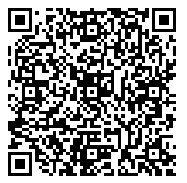
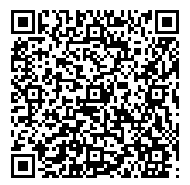
chore: actualizar link de descarga MEGA y QR a nueva version del instalador (891MB)

diff --git a/index.html b/index.html
@@ -275,7 +275,7 @@
             </div>
 
             <!-- Primary Download Button (Mega) -->
-            <a href="https://mega.nz/file/zPI1gawA#y-E0MLB6tqI3Soen1IjRFvXBdAELtG8m9sJut92jWoo" id="mainDownloadBtn" class="btn-primary-download" target="_blank" rel="noopener noreferrer">
+            <a href="https://mega.nz/file/yLAhlSSS#igIBJYLekM7edOQ_2KxHual0LNYTdXIf5eInK3cf95w" id="mainDownloadBtn" class="btn-primary-download" target="_blank" rel="noopener noreferrer">
               <span class="btn-bg-shimmer"></span>
               <span class="dl-btn-content">
                 <span class="dl-icon-symbol">⬇</span>
@@ -288,7 +288,7 @@
             <div class="download-aux-bar">
               <span class="aux-label" data-i18n="dl.aux_label">ENLACE MEGA:</span>
               <div class="link-display-box">
-                <code id="displayDownloadUrl" class="url-text">https://mega.nz/file/zPI1gawA#y-E0MLB6tqI3Soen1IjRFvXBdAELtG8m9sJut92jWoo</code>
+                <code id="displayDownloadUrl" class="url-text">https://mega.nz/file/yLAhlSSS#igIBJYLekM7edOQ_2KxHual0LNYTdXIf5eInK3cf95w</code>
                 <button id="btnCopyLink" class="btn-copy" title="Copiar enlace al portapapeles">
                   <span data-i18n="dl.copy_btn">COPIAR</span>
                 </button>

diff --git a/main.js b/main.js
@@ -16,10 +16,10 @@
 // CONFIGURACIÓN CENTRALIZADA // ENLACE DE DESCARGA
 // ==========================================================================
 const CONFIG = {
-  DOWNLOAD_URL: "https://mega.nz/file/zPI1gawA#y-E0MLB6tqI3Soen1IjRFvXBdAELtG8m9sJut92jWoo",
+  DOWNLOAD_URL: "https://mega.nz/file/yLAhlSSS#igIBJYLekM7edOQ_2KxHual0LNYTdXIf5eInK3cf95w",
   FILENAME: "ForcesOfHeaven_Setup.exe",
   VERSION: "1.0.0",
-  FILE_SIZE: "466 MB"
+  FILE_SIZE: "891 MB"
 };
 
 // ==========================================================================
